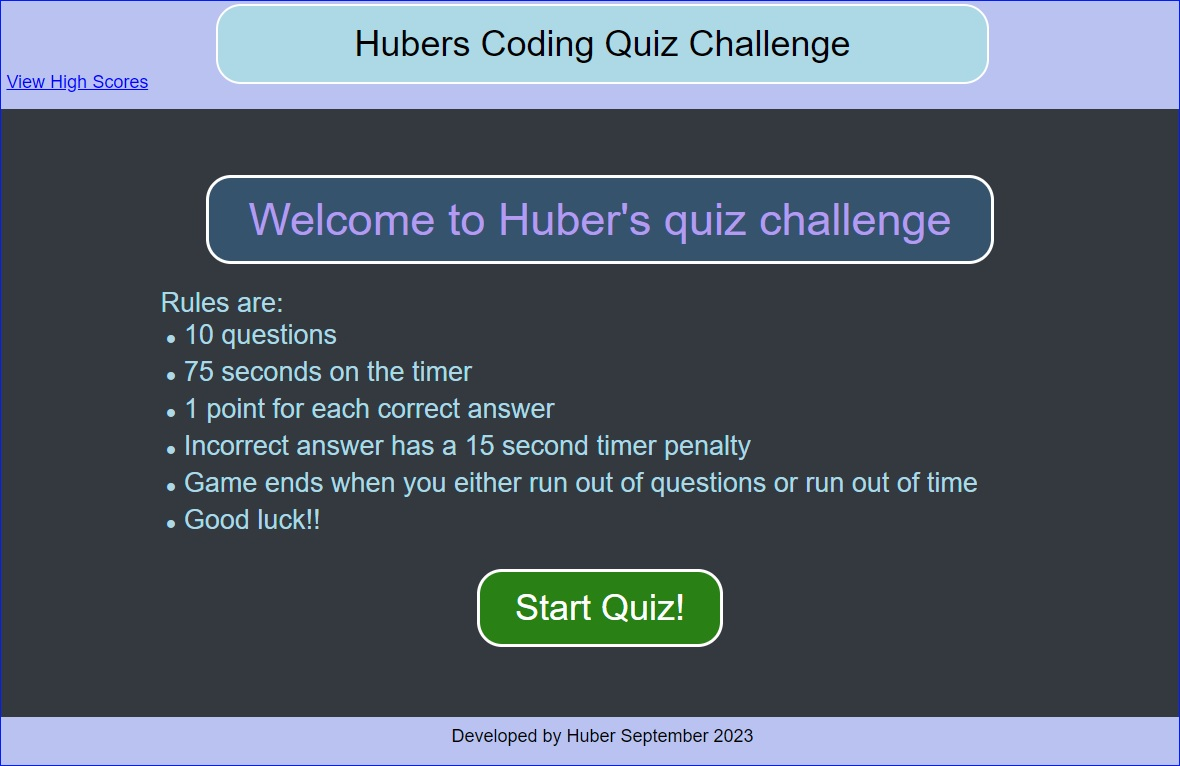
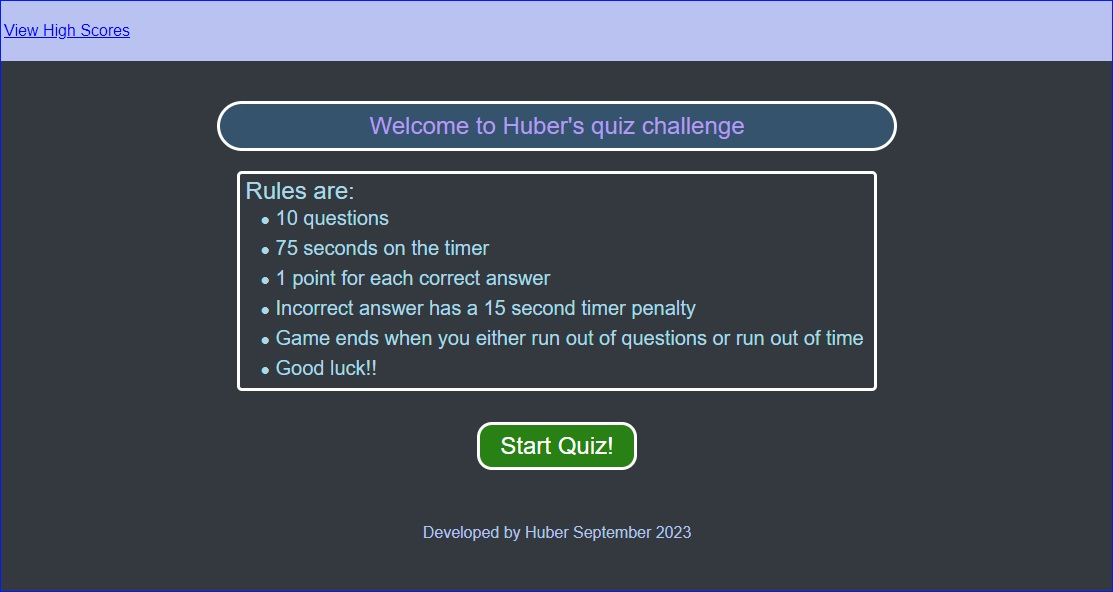
Update Readme

diff --git a/assets/css/style.css b/assets/css/style.css
@@ -91,7 +91,7 @@ main {
     border-radius: 25px;
     padding: 20px;
     margin: 20px;                            
-    min-height: 82vh;           
+    min-height: 70vh;           
 }
 
 /*****************************************************/
@@ -298,9 +298,9 @@ article {
 footer {    
     color: var(--lighterbackground);
     padding: 5px 5px 5px 5px; 
-    bottom: 0;
+    bottom: 0px;
     width: 100%;
-    min-height: 3vh;        
+    min-height: 20vh;        
 }
 
 /*****************/
